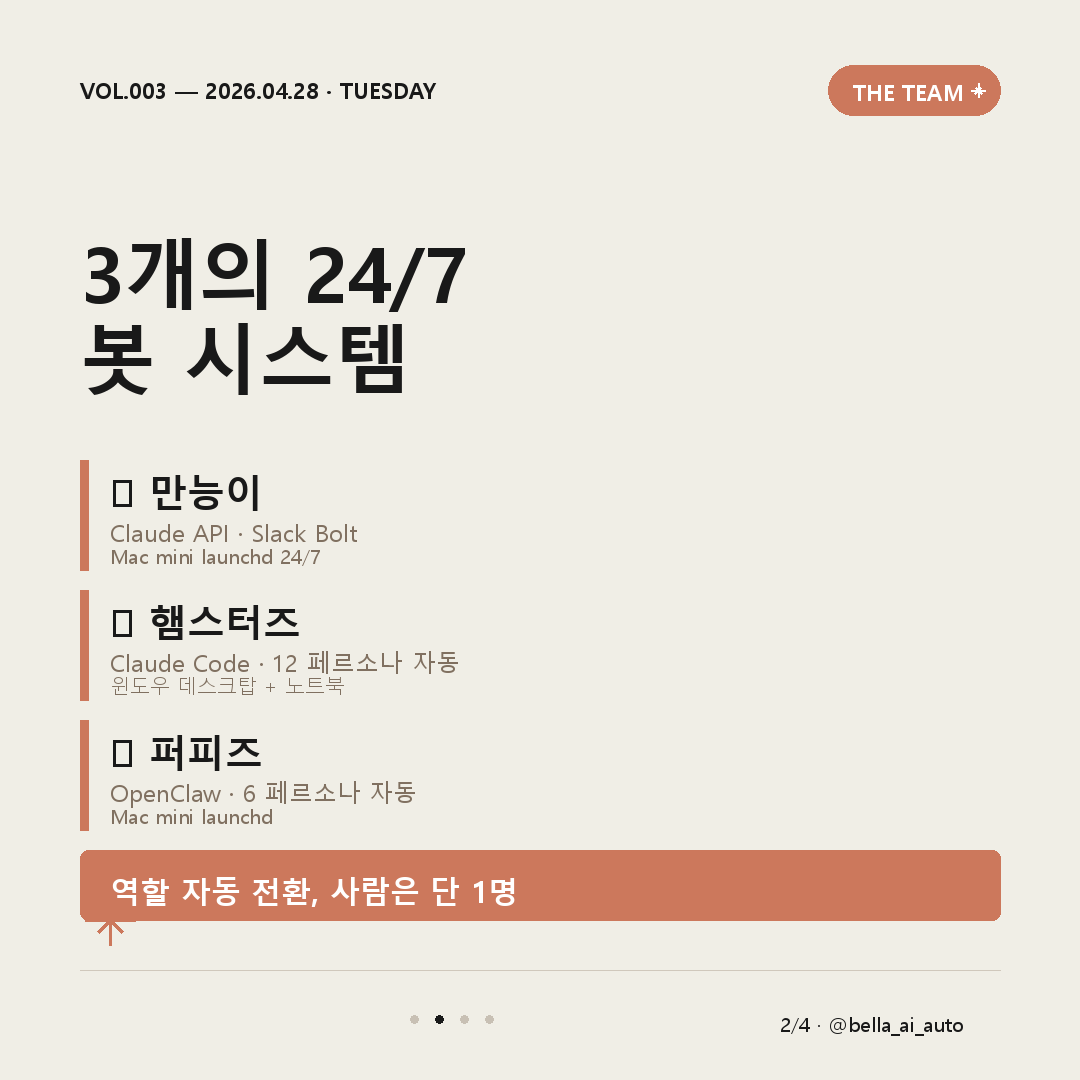
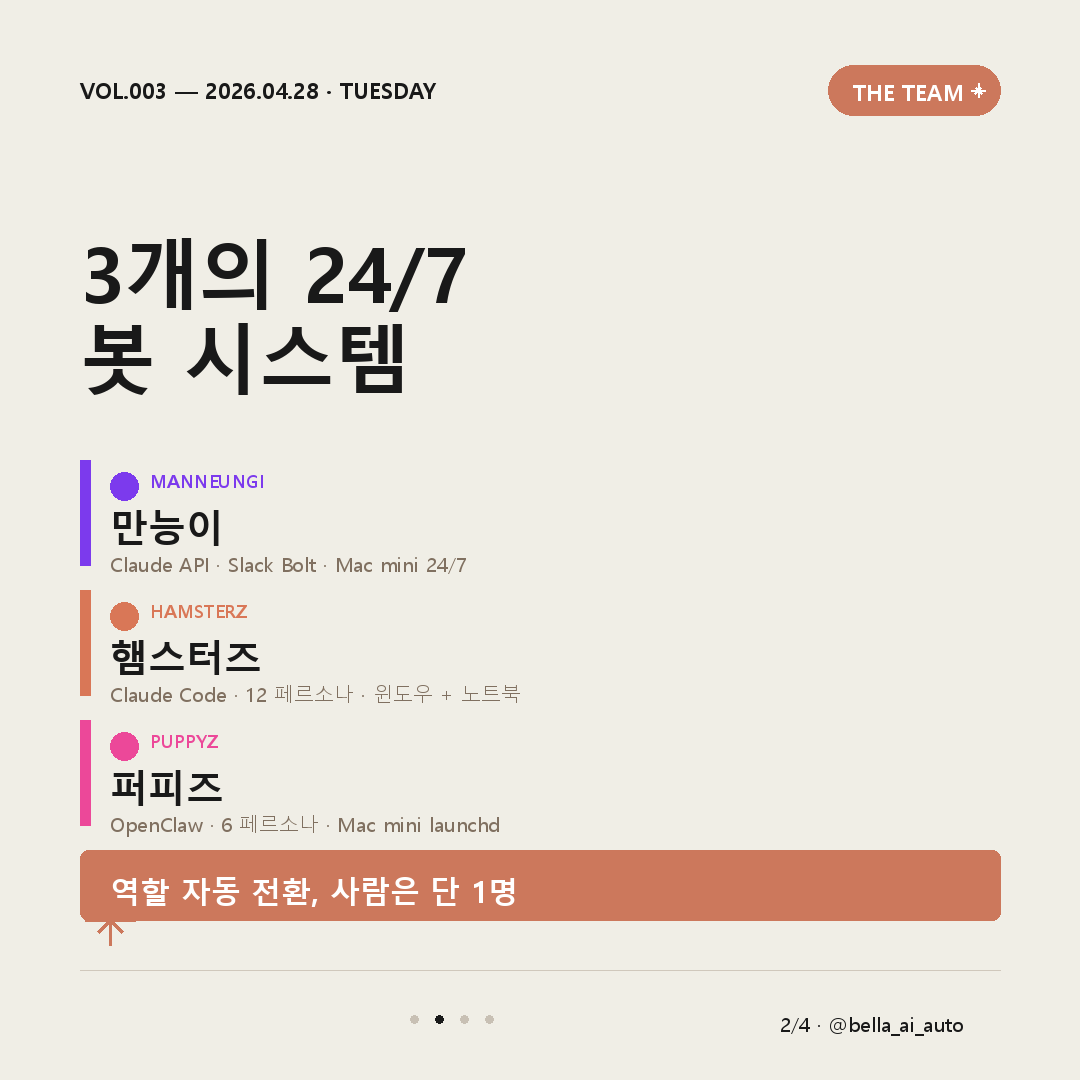
🔧 D+6 화 v20: PIL 이모지 박스 깨짐 우회 + 영구 박제
수정:
- vol003_v2_ko_2.png: ☁/🐹/🐕 이모지 박스 → 색상 도트 + 영문 코드명
- vol003_v2_ko_4.png: ✷ 이모지 → draw_star() 직접 그림

스킬 영구 박제:
- vol001_design_spec.md에 'PIL 한계 + 우회법 4가지' 추가
- 색상 도트 / 영문 라벨 / 직접 도형 / 픽셀아트 합성
- 캐릭터 색상 매핑 표준 (만능이 보라 / 햄스터즈 주황 / 퍼피즈 핑크)

Changed region(s): [[0.0611, 0.4278, 0.4278, 0.7944], [0.3972, 0.7639, 0.4278, 0.7944]]

diff --git a/scripts/generate_vol003_ko_v2.py b/scripts/generate_vol003_ko_v2.py
@@ -137,21 +137,28 @@ def slide_2(out):
     d.text((80, 220), "3개의 24/7", fill=DARK, font=f_huge)
     d.text((80, 305), "봇 시스템", fill=DARK, font=f_huge)
 
-    # 3 카드 세로
+    # 3 카드 세로 (이모지 X, 색상 컬러 바로 구분)
+    PURPLE = (124, 58, 237)
+    ORANGE = (217, 119, 87)
+    PINK = (236, 72, 153)
     cards = [
-        ("☁ 만능이", "Claude API · Slack Bolt", "Mac mini launchd 24/7", BROWN),
-        ("🐹 햄스터즈", "Claude Code · 12 페르소나 자동", "윈도우 데스크탑 + 노트북", DARK),
-        ("🐕 퍼피즈", "OpenClaw · 6 페르소나 자동", "Mac mini launchd", DARK),
+        ("만능이", "MANNEUNGI", "Claude API · Slack Bolt · Mac mini 24/7", PURPLE),
+        ("햄스터즈", "HAMSTERZ", "Claude Code · 12 페르소나 · 윈도우 + 노트북", ORANGE),
+        ("퍼피즈", "PUPPYZ", "OpenClaw · 6 페르소나 · Mac mini launchd", PINK),
     ]
+    f_eng = ImageFont.truetype(F_BOLD, 18)
     y = 460
-    for i, (name, desc1, desc2, color) in enumerate(cards):
-        # 좌측 컬러 바
-        d.rectangle([(80, y), (88, y + 110)], fill=BROWN)
-        # 이름
-        d.text((110, y + 5), name, fill=DARK, font=f_card_name)
-        # 디스크립션
-        d.text((110, y + 55), desc1, fill=GRAY, font=f_card_desc)
-        d.text((110, y + 82), desc2, fill=GRAY, font=f_card_sub)
+    for kr, en, desc, color in cards:
+        # 좌측 컬러 바 (각 봇 색상)
+        d.rectangle([(80, y), (90, y + 105)], fill=color)
+        # 색상 도트
+        d.ellipse([(110, y + 12), (138, y + 40)], fill=color)
+        # 영문 코드명 (작게, 색상)
+        d.text((150, y + 8), en, fill=color, font=f_eng)
+        # 한글 이름 (큰 검정)
+        d.text((110, y + 40), kr, fill=DARK, font=f_card_name)
+        # 디스크립션 (회색)
+        d.text((110, y + 90), desc, fill=GRAY, font=f_card_sub)
         y += 130
 
     # 임팩트 박스 (Crail Brown)
@@ -217,10 +224,13 @@ def slide_4(out):
     # 우측 별
     draw_star(d, 1010, 90, 30, WHITE, width=2)
 
-    # 메인
+    # 메인 (이모지 ✷ 대신 직접 그림 별)
     d.text((110, 230), "댓글에", fill=WHITE, font=f_huge)
     d.text((110, 330), "「DREAMTEAM」", fill=WHITE, font=f_huge)
-    d.text((110, 430), "남기시면 ✷", fill=WHITE, font=f_huge)
+    d.text((110, 430), "남기시면", fill=WHITE, font=f_huge)
+    # "남기시면" 옆에 흰 별 그림
+    text_w = d.textlength("남기시면", font=f_huge)
+    draw_star(d, 110 + text_w + 50, 470, 50, WHITE, width=4)
 
     # 가벼운 약속 박스 (흰 테두리)
     d.rounded_rectangle([(110, 600), (970, 800)], radius=14, outline=WHITE, width=3)
